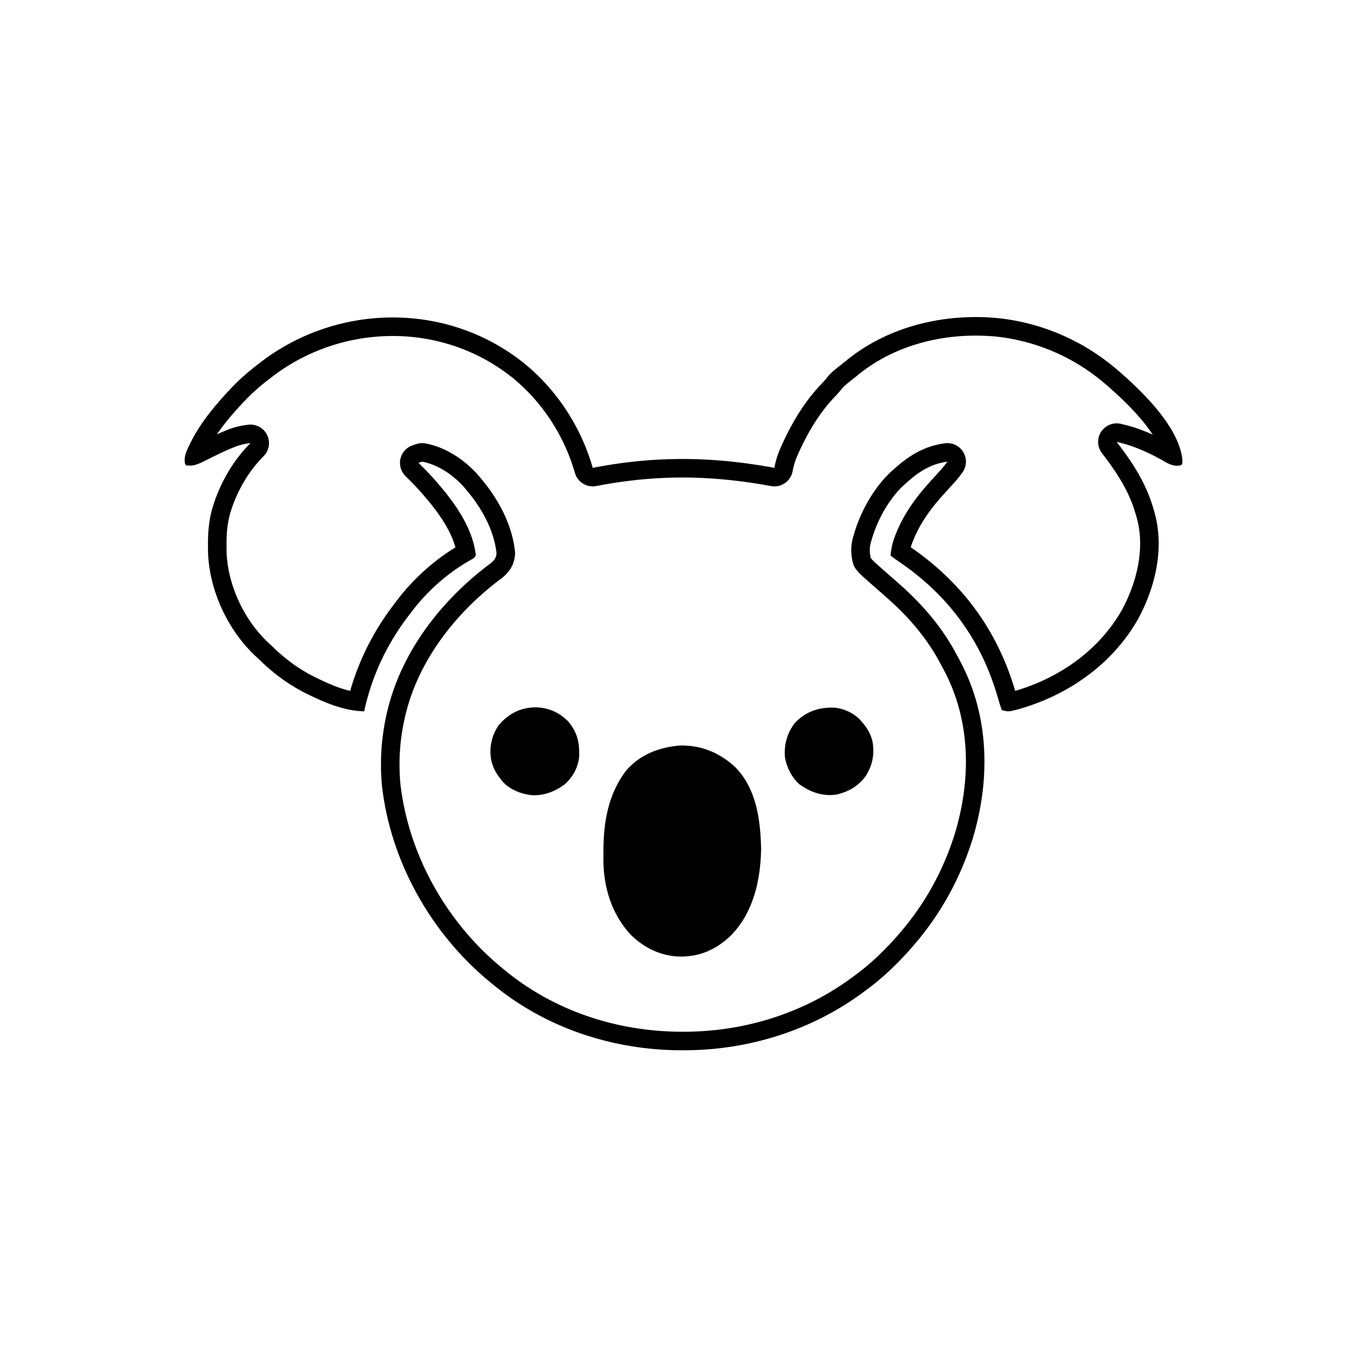
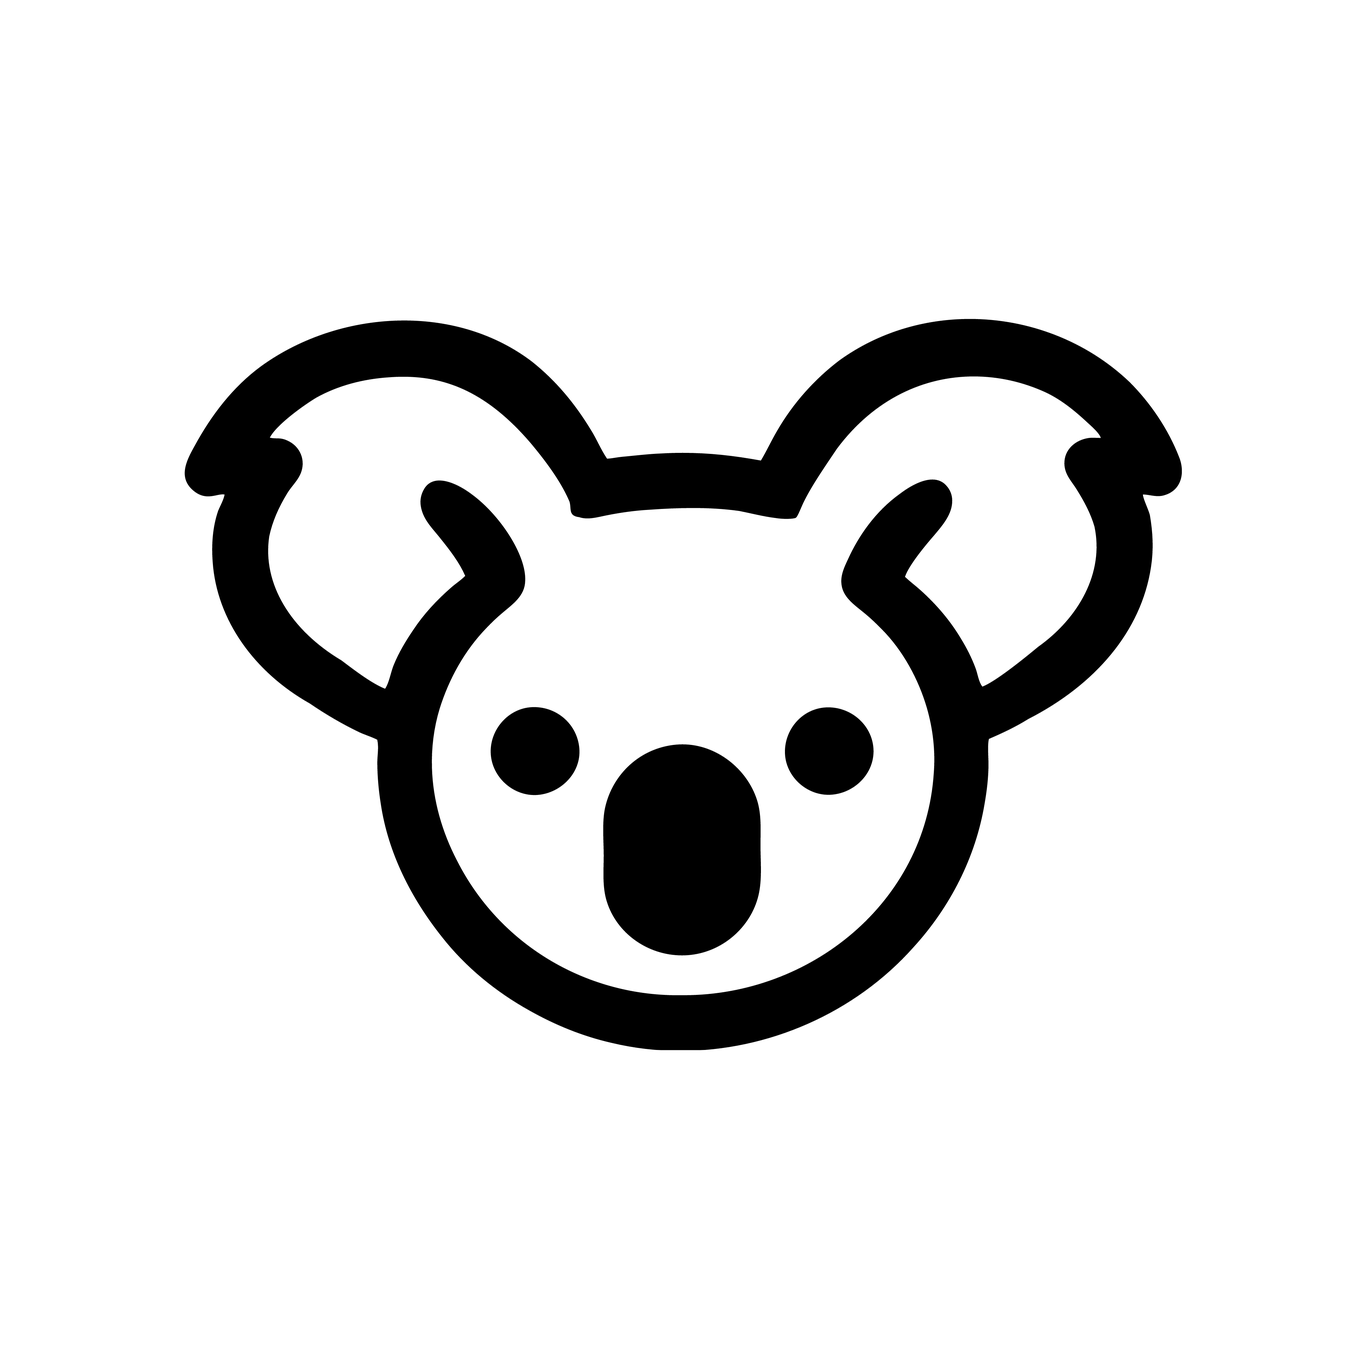
Replace light outlined Kody mark with approved v4-fit filled paths (#4264)
Swap the stroke-and-clip outlined mark for Kent's filled evenodd ring
plus eyes and nose, sharing the solid mark viewBox so light/dark swaps
do not shift layout. Regenerate light favicons, brand PNG/SVGs, and
point the README at the outlined logo.

Changed region(s): [[0.125, 0.2188, 0.875, 0.7812], [0.5312, 0.6562, 0.5625, 0.6875]]

diff --git a/packages/worker/start/brand/kody-mark-path.ts b/packages/worker/start/brand/kody-mark-path.ts
@@ -3,9 +3,9 @@
  * viewBox: 220.727 325.009973 807.440627 593.242027
  *
  * The solid mark is one evenodd path: outer silhouette plus eye/nose holes.
- * The light outlined mark reuses that geometry: inner-stroke the outer
- * silhouette (clip + 2× stroke so the outer edge matches the solid mark),
- * then fill the former holes as solid eyes and nose.
+ * The light outlined mark is a separate filled-path design (evenodd ring plus
+ * solid eyes and nose) that shares the same viewBox and silhouette footprint,
+ * so light/dark swaps do not shift layout.
  */
 export const kodyMarkViewBox = '220.727 325.009973 807.440627 593.242027'
 
@@ -14,28 +14,18 @@ export const kodyMarkPathTransform = 'translate(484 354)'
 export const kodyMarkPathD =
 	'M0 0 C0.56 0.376 1.12 0.752 1.696 1.139 C33.221 22.698 56.595 56.445 67 93 C67.356 92.932 67.356 92.932 69.158 92.589 C118.866 83.196 164.325 83.851 214 93 C214.102 92.45 214.205 91.901 214.31 91.334 C215.457 85.653 217.203 80.63 219.625 75.375 C219.98 74.596 220.335 73.818 220.7 73.016 C228.964 55.098 238.861 38.79 252.625 24.516 C255 22 255 22 257.004 19.434 C260.285 15.433 264.394 12.424 268.439 9.237 C269.988 8.01 271.518 6.762 273.047 5.512 C307.28 -22.107 353.115 -32.463 396.312 -27.984 C432.313 -23.827 465.739 -8.902 493 15 C493.837 15.727 494.673 16.454 495.535 17.203 C513.717 33.277 541.257 60.549 544.125 86 C544.195 88.313 544.195 88.313 544 90 C543 91 543 91 539.988 91.348 C535.028 91.268 531.386 88.865 527.188 86.438 C520.701 82.855 514.233 79.658 507.312 77 C506.595 76.722 505.878 76.444 505.139 76.158 C500.499 74.418 495.831 73.1 491 72 C491.368 72.48 491.736 72.96 492.115 73.454 C504.813 90.092 515.344 106.679 521 127 C521.178 127.606 521.356 128.211 521.539 128.835 C529.761 157.62 522.464 188.971 508.663 214.707 C488.526 250.79 453.243 275.96 413.997 287.594 C403.677 290.486 403.677 290.486 398 289 C396.819 285.568 395.734 282.127 394.738 278.637 C381.479 232.335 354.488 195.777 314.742 168.875 C312.445 167.305 310.209 165.691 308 164 C308.483 158.511 309.527 153.642 311.5 148.5 C311.761 147.817 312.021 147.134 312.29 146.431 C319.053 129.39 329.635 115.343 342 102 C343.631 100.214 345.254 98.42 346.875 96.625 C347.594 95.834 348.314 95.042 349.055 94.227 C350.813 92.214 352.431 90.161 354 88 C340.628 89.716 330.757 96.226 321 105 C320.303 105.603 319.605 106.207 318.887 106.828 C306.429 118.312 296.957 135.84 292.438 152.062 C292.353 152.36 292.353 152.36 291.926 153.865 C290.828 158.287 291.028 161.621 292 166 C293.634 167.991 295.051 169.375 297 171 C298.439 172.291 299.876 173.582 301.312 174.875 C304.134 177.367 306.97 179.843 309.812 182.312 C311.21 183.539 312.606 184.769 314 186 C314.426 186.374 314.852 186.749 315.292 187.134 C334.204 203.819 350.408 222.794 362.089 245.251 C362.917 246.842 363.774 248.418 364.633 249.992 C388.301 294.726 388.744 346.346 374.215 393.945 C364.261 425.463 348.62 453.956 327 479 C326.331 479.78 325.662 480.56 324.973 481.363 C314.033 493.81 302.346 505.169 289 515 C288.44 515.421 287.88 515.842 287.303 516.275 C245.121 547.948 193.509 564.203 140.938 564.25 C140.246 564.251 139.554 564.251 138.841 564.252 C82.943 564.167 28.087 545.992 -15 510 C-15.581 509.521 -16.162 509.041 -16.76 508.547 C-64.062 469.424 -96.743 411.298 -103.613 350.012 C-105.171 332.606 -104.367 315.131 -101 298 C-100.844 297.195 -100.689 296.389 -100.528 295.56 C-90.246 244.559 -56.577 200.563 -15.352 170.039 C-12.587 167.642 -11.154 165.853 -10.848 162.168 C-12.95 142.786 -23.446 124.513 -36 110 C-36.706 109.18 -37.413 108.36 -38.141 107.516 C-46.727 98.293 -58.456 90.383 -71 88 C-71.99 88.33 -72.98 88.66 -74 89 C-73.432 89.557 -72.863 90.114 -72.277 90.688 C-67.292 95.615 -62.499 100.621 -58 106 C-57.787 106.248 -57.787 106.248 -56.708 107.505 C-43.864 122.518 -31.109 140.999 -28 161 C-27.935 161.329 -27.935 161.329 -27.605 162.992 C-28 165 -28 165 -30.352 166.754 C-31.437 167.368 -32.528 167.97 -33.625 168.562 C-51.401 178.881 -67.716 193.549 -80 210 C-80.889 211.161 -81.779 212.323 -82.668 213.484 C-100.029 236.41 -111.877 261.833 -118 290 C-133.547 289.631 -148.173 283.692 -162 277 C-162.637 276.692 -163.274 276.384 -163.93 276.066 C-178.038 269.128 -190.296 260.29 -201.58 249.365 C-202.958 248.041 -204.36 246.748 -205.77 245.457 C-228.256 224.479 -243.253 192.357 -244.336 161.555 C-244.366 159.328 -244.379 157.102 -244.375 154.875 C-244.374 154.29 -244.374 153.704 -244.373 153.101 C-244.329 142.652 -243.211 132.959 -240 123 C-239.796 122.368 -239.593 121.735 -239.383 121.084 C-233.408 103.327 -223.27 86.27 -210 73 C-214.811 73.547 -219.013 74.518 -223.5 76.375 C-224.119 76.624 -224.738 76.873 -225.375 77.129 C-229.611 78.88 -233.731 80.822 -237.844 82.844 C-238.86 83.342 -239.877 83.841 -240.924 84.354 C-242.945 85.353 -244.959 86.366 -246.967 87.392 C-252.228 90.004 -256.094 91.786 -262 91 C-263 90 -263 90 -263.273 86.938 C-263.198 82.441 -261.593 78.98 -259.625 75 C-259.268 74.264 -258.912 73.528 -258.545 72.769 C-252.573 60.784 -244.754 50.088 -236 40 C-235.294 39.183 -234.587 38.365 -233.859 37.523 C-231.612 34.977 -229.326 32.474 -227 30 C-226.558 29.529 -226.116 29.059 -225.661 28.574 C-218.046 20.541 -209.872 13.605 -201 7 C-200.194 6.388 -199.389 5.775 -198.559 5.145 C-140.28 -37.526 -60.107 -40.452 0 0 Z M-9.054543 301.171742 C-14.775043 309.359792 -16.827793 318.998792 -15.286743 328.793342 C-13.981143 334.830892 -11.829793 339.310392 -8.028593 344.152842 C-7.505843 344.861742 -6.983093 345.570642 -6.445043 346.300792 C-0.389643 353.308192 9.042807 357.049892 18.089357 357.888842 C27.726657 358.345292 37.188857 354.640142 44.697757 348.747942 C51.115257 342.780942 55.480007 334.929492 56.036757 326.133692 C56.336807 315.168692 54.480407 306.929642 47.224807 298.279192 C39.756707 290.709092 30.999157 286.918092 20.446407 286.777842 C8.454607 286.924042 -1.316993 292.043592 -9.054543 301.171742 Z M230.969703 298.999399 C224.473153 306.934149 221.749753 316.646249 222.493503 326.777399 C223.752353 334.986699 228.066953 343.725549 234.396053 349.152799 C243.395003 355.542249 252.977903 358.931199 264.133303 357.380799 C273.821603 355.226049 282.138003 350.437999 287.943503 342.295849 C293.664853 333.076749 295.342753 323.842349 293.142953 313.263249 C291.473553 307.709349 289.084203 303.414299 285.233703 299.105649 C284.817203 298.591399 284.400703 298.077999 283.972303 297.548449 C278.740553 291.605249 270.152153 287.628949 262.287103 287.003349 C249.864353 286.735599 239.778253 290.022549 230.969703 298.999399 Z M94 338 C79.64 356.829 75.614 379.665 75.684 402.759 C75.687 404.933 75.664 407.105 75.639 409.279 C75.537 431.725 82.125 453.948 97.693 470.693 C108.686 481.686 122.953 488.398 138.562 488.438 C154.397 488.384 167.43 482.32 178.785 471.395 C196.925 452.946 202.765 426.756 203.25 401.625 C202.774 378.027 199.55 352.706 182.277 335.109 C169.623 323.388 154.265 317.078 136.863 317.723 C120.054 319.351 105.286 324.99 94 338 Z'
 
-const kodyMarkPathSubpaths = kodyMarkPathD.split(/(?<=Z)\s*(?=M)/)
+/** Filled evenodd ring for the light outlined mark (not derived from the solid path). */
+export const kodyMarkOutlinedRingPathD =
+	'M-107.36 313.16C-111.65 310.88 -116.91 309.35 -121.70 307.16C-135.41 300.62 -149.31 292.45 -161.99 283.77C-206.48 258.70 -237.33 216.42 -240.53 169.12C-241.55 155.11 -240.61 141.10 -236.10 127.90C-234.36 123.62 -231.76 119.33 -230.87 114.74C-236.62 113.47 -245.53 120.67 -256.28 111.45C-268.77 100.83 -261.60 86.97 -255.22 75.57C-241.56 50.36 -224.11 27.63 -201.54 11.04C-139.28 -34.22 -45.67 -41.14 17.82 7.16C36.97 22.38 52.38 40.78 65.55 62.49C70.11 69.66 73.52 78.30 78.61 85.74C82.75 85.52 86.90 84.51 91.19 84.15C101.79 83.18 112.17 81.90 122.32 81.50C150.66 79.87 175.74 82.25 203.07 87.23C207.75 79.42 211.64 70.89 216.12 63.31C229.17 40.67 246.72 21.23 266.62 6.14C337.94 -45.28 438.83 -36.02 501.44 23.76C518.12 40.43 532.67 61.71 541.48 84.45C546.48 97.02 543.52 111.67 528.84 115.49C522.96 117.01 517.94 114.83 512.20 114.67C512.28 118.17 516.75 126.95 517.83 131.44C520.25 145.43 520.95 159.15 518.75 173.26C510.90 225.54 473.32 268.83 419.39 296.40C408.75 303.05 398.04 307.94 387.61 312.47C386.29 316.88 387.28 328.26 387.23 333.21C387.20 343.88 385.90 354.59 384.04 365.12C376.81 408.27 356.23 448.48 326.71 480.87C266.70 548.47 170.07 579.55 81.96 558.35C58.66 553.02 36.54 543.95 15.77 532.24C-11.31 517.17 -35.98 497.04 -55.12 472.57C-79.96 441.29 -98.54 404.82 -104.47 365.21C-106.21 354.30 -107.23 343.27 -107.31 332.25C-107.40 326.15 -105.90 319.46 -107.36 313.16ZM319.67 181.32C323.61 185.13 328.26 188.50 332.38 192.25C345.15 203.75 356.39 216.86 365.18 231.72C369.65 239.00 373.63 246.87 376.65 254.92C378.56 259.86 379.17 266.14 382.24 270.16C393.33 266.02 418.43 245.39 427.39 237.97C460.17 214.62 480.93 178.12 472.99 140.72C470.03 130.34 464.63 120.26 458.84 111.02C454.54 103.95 448.83 98.73 448.65 89.80C448.39 78.36 457.58 70.51 468.29 68.98C471.60 68.53 474.81 69.00 478.11 68.92C476.99 65.03 470.49 59.43 467.36 56.56C456.78 46.69 445.92 37.90 433.39 32.02C379.56 7.30 310.62 16.05 264.65 77.60C253.23 94.54 244.81 106.86 238.57 119.11C235.32 125.34 232.67 133.77 230.77 133.79C228.38 134.46 221.80 134.85 214.73 133.71C204.94 132.51 195.12 129.89 185.29 127.99C161.62 124.73 137.58 125.28 112.80 127.03C100.97 127.70 89.22 129.37 78.19 131.59C70.63 133.08 63.16 135.41 56.07 133.06C47.05 131.92 49.93 126.47 48.23 120.56C42.45 106.82 31.96 91.16 16.32 72.57C-21.48 28.69 -57.58 16.75 -98.16 19.90C-118.73 21.27 -138.92 26.49 -156.45 36.22C-166.03 41.91 -188.93 58.13 -194.28 68.71C-188.53 70.09 -185.92 67.87 -178.40 71.88C-169.74 76.63 -165.74 86.43 -168.61 95.68C-170.74 102.82 -176.66 107.76 -180.36 114.03C-187.10 125.08 -192.19 136.47 -194.76 148.61C-200.55 186.90 -177.30 224.52 -136.25 248.98C-125.18 257.34 -111.83 267.55 -101.01 271.89C-97.64 266.81 -96.45 258.49 -93.98 252.54C-89.95 242.64 -84.32 233.27 -78.35 224.48C-69.79 211.49 -59.21 200.15 -47.50 189.94C-43.84 186.71 -39.55 184.02 -36.19 180.53C-40.79 169.88 -48.59 159.74 -56.54 149.89C-62.97 141.74 -70.49 134.82 -72.15 123.89C-72.90 119.20 -71.88 114.78 -69.98 111.28C-62.76 96.82 -43.77 104.77 -30.84 114.57C-8.37 130.96 13.40 163.63 12.35 184.54C12.14 196.65 2.50 203.22 -6.00 210.45C-10.55 214.23 -14.88 218.40 -18.99 222.72C-36.88 241.17 -49.33 264.07 -56.79 287.75C-61.59 303.39 -63.59 319.83 -63.09 336.04C-62.29 362.26 -54.85 387.83 -42.82 410.91C-8.20 479.41 62.60 521.14 139.10 519.85C241.96 520.60 336.00 445.77 342.96 340.17C344.36 322.33 342.30 304.36 337.28 287.09C330.64 264.43 318.12 241.01 300.74 223.58C296.52 219.31 292.17 215.07 287.53 211.26C278.72 203.90 268.49 197.61 268.14 185.60C267.86 178.81 271.03 172.50 273.71 166.73C281.92 148.67 295.53 128.45 315.57 114.12C327.66 104.92 344.70 96.66 353.82 108.31C356.24 111.21 357.86 115.16 357.88 119.55C358.02 130.69 349.96 139.74 343.00 148.04C335.70 156.42 322.53 172.39 319.67 181.32Z'
 
-if (kodyMarkPathSubpaths.length !== 4) {
-	throw new Error(
-		`Kody mark path must split into outer + 3 face holes (got ${kodyMarkPathSubpaths.length})`,
-	)
-}
+export const kodyMarkOutlinedLeftEyePathD =
+	'M22.65 357.78C3.40 359.39 -14.24 344.08 -15.50 324.79C-16.77 305.48 -1.56 287.65 17.85 286.77C37.40 285.88 54.36 300.14 56.15 319.97C57.92 339.68 41.46 356.19 22.65 357.78Z'
 
-/** Outer silhouette only (includes ear-notch contour as part of the path). */
-export const kodyMarkOuterPathD = kodyMarkPathSubpaths[0]!
+export const kodyMarkOutlinedRightEyePathD =
+	'M260.97 357.54C241.66 359.41 223.86 344.17 222.60 325.14C221.33 306.10 235.60 288.20 255.41 286.99C274.81 285.81 292.43 300.20 294.10 319.59C295.76 339.07 280.15 355.69 260.97 357.54Z'
 
-/** Former evenodd holes, filled solid in the outlined light mark. */
-export const kodyMarkLeftEyePathD = kodyMarkPathSubpaths[1]!
-export const kodyMarkRightEyePathD = kodyMarkPathSubpaths[2]!
-export const kodyMarkNosePathD = kodyMarkPathSubpaths[3]!
-
-/**
- * Visible outline weight in viewBox units (calibrated to the light-mode
- * line-art reference). Inner-stroke technique uses `2 ×` this value under a
- * clip to the outer path so the outer edge matches the solid mark exactly.
- */
-export const kodyMarkOutlineStrokeWidth = 15
+export const kodyMarkOutlinedNosePathD =
+	'M143.61 487.48C114.17 489.48 86.72 471.11 78.33 443.87C74.66 431.99 75.86 419.30 75.88 407.04C75.89 394.95 74.43 379.86 76.99 368.17C82.95 341.00 105.46 319.66 134.57 317.09C164.24 314.47 191.49 335.36 199.96 361.99C203.66 373.61 202.77 386.05 202.74 398.05C202.70 411.49 204.25 425.93 201.11 439.10C194.94 464.94 171.53 485.59 143.61 487.48Z'
 
 /** Natural width÷height of the mark viewBox. */
 export const kodyMarkAspectRatio = 807.440627 / 593.242027
@@ -69,24 +59,13 @@ export function kodyMarkSvgMarkup(fill = '#000000'): string {
 `
 }
 
-/** Serialize the light outlined mark (inner-stroke silhouette + solid eyes/nose). */
-export function kodyMarkOutlinedSvgMarkup(
-	fill = '#000000',
-	clipId = 'kody-mark-outlined-clip',
-): string {
-	const strokeWidth = kodyMarkOutlineStrokeWidth * 2
+/** Serialize the light outlined mark (filled evenodd ring + solid eyes/nose). */
+export function kodyMarkOutlinedSvgMarkup(fill = '#000000'): string {
 	return `<svg xmlns="http://www.w3.org/2000/svg" viewBox="${kodyMarkViewBox}" role="img" aria-label="Kody">
-  <defs>
-    <clipPath id="${clipId}">
-      <path transform="${kodyMarkPathTransform}" d="${kodyMarkOuterPathD}"/>
-    </clipPath>
-  </defs>
-  <g clip-path="url(#${clipId})">
-    <path fill="none" stroke="${fill}" stroke-width="${strokeWidth}" stroke-linejoin="round" stroke-linecap="round" transform="${kodyMarkPathTransform}" d="${kodyMarkOuterPathD}"/>
-  </g>
-  <path fill="${fill}" transform="${kodyMarkPathTransform}" d="${kodyMarkLeftEyePathD}"/>
-  <path fill="${fill}" transform="${kodyMarkPathTransform}" d="${kodyMarkRightEyePathD}"/>
-  <path fill="${fill}" transform="${kodyMarkPathTransform}" d="${kodyMarkNosePathD}"/>
+  <path fill="${fill}" fill-rule="evenodd" transform="${kodyMarkPathTransform}" d="${kodyMarkOutlinedRingPathD}"/>
+  <path fill="${fill}" transform="${kodyMarkPathTransform}" d="${kodyMarkOutlinedLeftEyePathD}"/>
+  <path fill="${fill}" transform="${kodyMarkPathTransform}" d="${kodyMarkOutlinedRightEyePathD}"/>
+  <path fill="${fill}" transform="${kodyMarkPathTransform}" d="${kodyMarkOutlinedNosePathD}"/>
 </svg>
 `
 }

diff --git a/packages/worker/start/components/kody-mark.tsx b/packages/worker/start/components/kody-mark.tsx
@@ -3,13 +3,12 @@ import { type CSSObject } from '@emotion/react'
 import { useId } from 'react'
 import {
 	kodyMarkAspectRatio,
-	kodyMarkLeftEyePathD,
-	kodyMarkNosePathD,
-	kodyMarkOuterPathD,
-	kodyMarkOutlineStrokeWidth,
+	kodyMarkOutlinedLeftEyePathD,
+	kodyMarkOutlinedNosePathD,
+	kodyMarkOutlinedRightEyePathD,
+	kodyMarkOutlinedRingPathD,
 	kodyMarkPathD,
 	kodyMarkPathTransform,
-	kodyMarkRightEyePathD,
 	kodyMarkViewBox,
 } from '../brand/kody-mark-path.ts'
 
@@ -30,9 +29,9 @@ export type KodyMarkProps = {
 }
 
 /**
- * Inline Kody mark. Light mode uses the outlined line-art treatment; dark mode
- * uses the solid fill. Both share the same viewBox and path geometry so theme
- * swaps do not shift the silhouette. Ink follows `currentColor`.
+ * Inline Kody mark. Light mode uses the outlined filled-path treatment; dark
+ * mode uses the solid fill. Both share the same viewBox and silhouette
+ * footprint so theme swaps do not shift layout. Ink follows `currentColor`.
  *
  * Theme switching uses an SVG `<style>` media query (same approach as
  * `favicon.svg`) so `prefers-color-scheme` applies reliably inside SVG.
@@ -47,10 +46,8 @@ export function KodyMark({
 	const width = Math.round(size * kodyMarkAspectRatio)
 	const labelled = title.trim().length > 0
 	const reactId = useId().replace(/:/g, '')
-	const clipId = `kody-mark-clip-${reactId}`
 	const outlinedClass = `kody-mark-outlined-${reactId}`
 	const solidClass = `kody-mark-solid-${reactId}`
-	const strokeWidth = kodyMarkOutlineStrokeWidth * 2
 	const showOutlined = variant === 'outlined' || variant === 'auto'
 	const showSolid = variant === 'solid' || variant === 'auto'
 
@@ -73,36 +70,26 @@ export function KodyMark({
 			) : null}
 			{showOutlined ? (
 				<g className={variant === 'auto' ? outlinedClass : undefined}>
-					<defs>
-						<clipPath id={clipId}>
-							<path transform={kodyMarkPathTransform} d={kodyMarkOuterPathD} />
-						</clipPath>
-					</defs>
-					<g clipPath={`url(#${clipId})`}>
-						<path
-							fill="none"
-							stroke="currentColor"
-							strokeWidth={strokeWidth}
-							strokeLinejoin="round"
-							strokeLinecap="round"
-							transform={kodyMarkPathTransform}
-							d={kodyMarkOuterPathD}
-						/>
-					</g>
 					<path
 						fill="currentColor"
+						fillRule="evenodd"
 						transform={kodyMarkPathTransform}
-						d={kodyMarkLeftEyePathD}
+						d={kodyMarkOutlinedRingPathD}
 					/>
 					<path
 						fill="currentColor"
 						transform={kodyMarkPathTransform}
-						d={kodyMarkRightEyePathD}
+						d={kodyMarkOutlinedLeftEyePathD}
 					/>
 					<path
 						fill="currentColor"
 						transform={kodyMarkPathTransform}
-						d={kodyMarkNosePathD}
+						d={kodyMarkOutlinedRightEyePathD}
+					/>
+					<path
+						fill="currentColor"
+						transform={kodyMarkPathTransform}
+						d={kodyMarkOutlinedNosePathD}
 					/>
 				</g>
 			) : null}

diff --git a/packages/worker/start/brand/kody-logo.ts b/packages/worker/start/brand/kody-logo.ts
@@ -1,11 +1,10 @@
 import {
-	kodyMarkLeftEyePathD,
-	kodyMarkNosePathD,
-	kodyMarkOuterPathD,
-	kodyMarkOutlineStrokeWidth,
+	kodyMarkOutlinedLeftEyePathD,
+	kodyMarkOutlinedNosePathD,
+	kodyMarkOutlinedRightEyePathD,
+	kodyMarkOutlinedRingPathD,
 	kodyMarkPathD,
 	kodyMarkPathTransform,
-	kodyMarkRightEyePathD,
 	kodyMarkViewBox,
 } from './kody-mark-path.ts'
 
@@ -63,29 +62,14 @@ export function kodyLogoSvgMarkup(fill = '#ffffff'): string {
 `
 }
 
-/** Light-mode logo: outlined line-art mark + wordmark. */
-export function kodyLogoOutlinedSvgMarkup(
-	fill = '#000000',
-	clipId = 'kody-logo-outlined-clip',
-): string {
-	const strokeWidth = kodyMarkOutlineStrokeWidth * 2
-	// The clip and the stroke it clips carry the full transform themselves, so
-	// both live in root user space. Consumers that resolve `userSpaceOnUse`
-	// against the root instead of the referencing group still clip correctly.
-	const outlineTransform = `${kodyLogoMarkTransform} ${kodyMarkPathTransform}`
+/** Light-mode logo: outlined filled-path mark + wordmark. */
+export function kodyLogoOutlinedSvgMarkup(fill = '#000000'): string {
 	return `<svg xmlns="http://www.w3.org/2000/svg" viewBox="${kodyLogoViewBox}" role="img" aria-label="Kody">
-  <defs>
-    <clipPath id="${clipId}">
-      <path transform="${outlineTransform}" d="${kodyMarkOuterPathD}"/>
-    </clipPath>
-  </defs>
-  <g clip-path="url(#${clipId})">
-    <path fill="none" stroke="${fill}" stroke-width="${strokeWidth}" stroke-linejoin="round" stroke-linecap="round" transform="${outlineTransform}" d="${kodyMarkOuterPathD}"/>
-  </g>
   <g transform="${kodyLogoMarkTransform}">
-    <path fill="${fill}" transform="${kodyMarkPathTransform}" d="${kodyMarkLeftEyePathD}"/>
-    <path fill="${fill}" transform="${kodyMarkPathTransform}" d="${kodyMarkRightEyePathD}"/>
-    <path fill="${fill}" transform="${kodyMarkPathTransform}" d="${kodyMarkNosePathD}"/>
+    <path fill="${fill}" fill-rule="evenodd" transform="${kodyMarkPathTransform}" d="${kodyMarkOutlinedRingPathD}"/>
+    <path fill="${fill}" transform="${kodyMarkPathTransform}" d="${kodyMarkOutlinedLeftEyePathD}"/>
+    <path fill="${fill}" transform="${kodyMarkPathTransform}" d="${kodyMarkOutlinedRightEyePathD}"/>
+    <path fill="${fill}" transform="${kodyMarkPathTransform}" d="${kodyMarkOutlinedNosePathD}"/>
   </g>
   <path fill="${fill}" d="${kodyWordmarkPathD}"/>
 </svg>

diff --git a/packages/worker/start/brand/kody-mark-path.node.test.ts b/packages/worker/start/brand/kody-mark-path.node.test.ts
@@ -3,6 +3,10 @@ import path from 'node:path'
 import { fileURLToPath } from 'node:url'
 import { expect, test } from 'vitest'
 import {
+	kodyMarkOutlinedLeftEyePathD,
+	kodyMarkOutlinedNosePathD,
+	kodyMarkOutlinedRightEyePathD,
+	kodyMarkOutlinedRingPathD,
 	kodyMarkOutlinedSvgMarkup,
 	kodyMarkSvgMarkup,
 } from './kody-mark-path.ts'
@@ -23,4 +27,16 @@ test('published mark SVGs match the markup helper', () => {
 		'utf8',
 	)
 	expect(publishedSolid).toBe(kodyMarkSvgMarkup('#ffffff'))
+})
+
+test('outlined mark is filled paths, not stroke-and-clip', () => {
+	const outlined = kodyMarkOutlinedSvgMarkup('#000000')
+	expect(outlined).toContain(kodyMarkOutlinedRingPathD)
+	expect(outlined).toContain(kodyMarkOutlinedLeftEyePathD)
+	expect(outlined).toContain(kodyMarkOutlinedRightEyePathD)
+	expect(outlined).toContain(kodyMarkOutlinedNosePathD)
+	expect(outlined).toContain('fill-rule="evenodd"')
+	expect(outlined).not.toContain('clipPath')
+	expect(outlined).not.toContain('stroke=')
+	expect(outlined).not.toContain('stroke-width')
 })

diff --git a/packages/worker/start/brand/kody-logo.node.test.ts b/packages/worker/start/brand/kody-logo.node.test.ts
@@ -11,7 +11,7 @@ import {
 } from './kody-logo.ts'
 import {
 	kodyBrandAssets,
-	kodyMarkOuterPathD,
+	kodyMarkOutlinedRingPathD,
 	kodyMarkPathD,
 } from './kody-mark-path.ts'
 
@@ -33,10 +33,11 @@ test('logo markup pairs the mark with the outlined wordmark', () => {
 	expect(solid.match(/fill="#ffffff"/g)).toHaveLength(2)
 
 	const outlined = kodyLogoOutlinedSvgMarkup('#000000')
-	expect(outlined).toContain('clipPath')
-	expect(outlined).toContain(kodyMarkOuterPathD)
+	expect(outlined).not.toContain('clipPath')
+	expect(outlined).toContain(kodyMarkOutlinedRingPathD)
 	expect(outlined).toContain(kodyWordmarkPathD)
-	expect(outlined).not.toContain('fill-rule="evenodd"')
+	expect(outlined).toContain('fill-rule="evenodd"')
+	expect(outlined).not.toContain('stroke=')
 })
 
 test('published logo SVGs match the markup helpers', () => {

diff --git a/README.md b/README.md
@@ -1,5 +1,5 @@
 <div align="center">
-  <img src="./packages/worker/public/logo.png" alt="kody logo" width="400" />
+  <img src="./packages/worker/public/images/brand/kody-logo-outlined.svg" alt="Kody logo" width="400" />
 
   <p>
     <strong>Your agents' cloud: the memory, keys, code, and automations your AI agent keeps, portable across every MCP host. Built on Cloudflare Workers.</strong>
